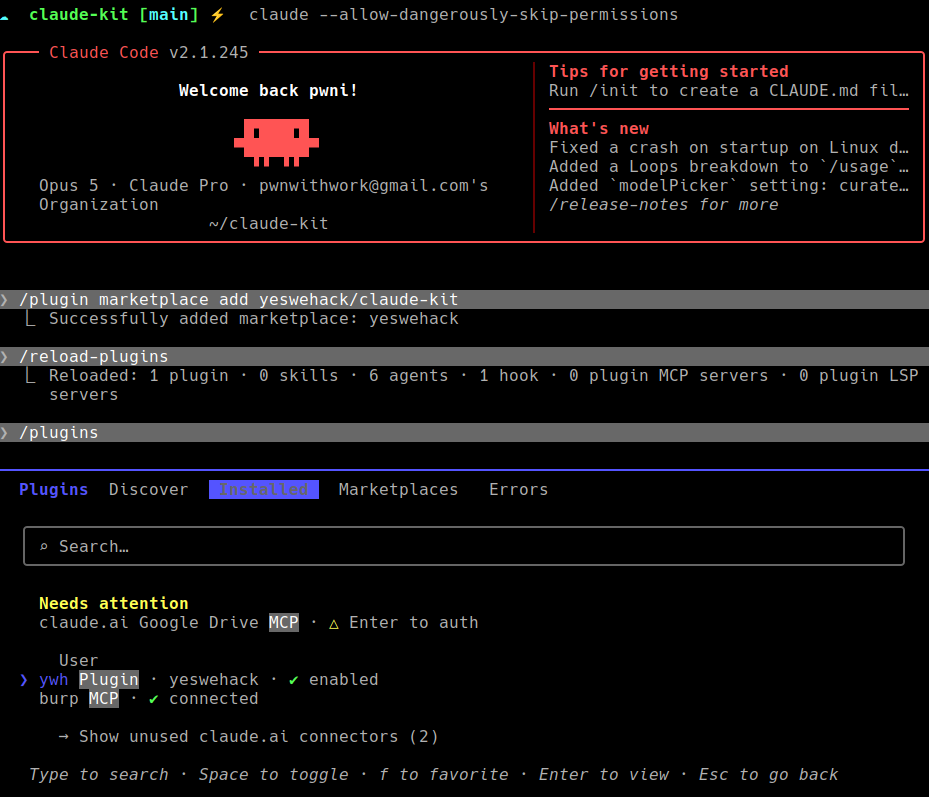
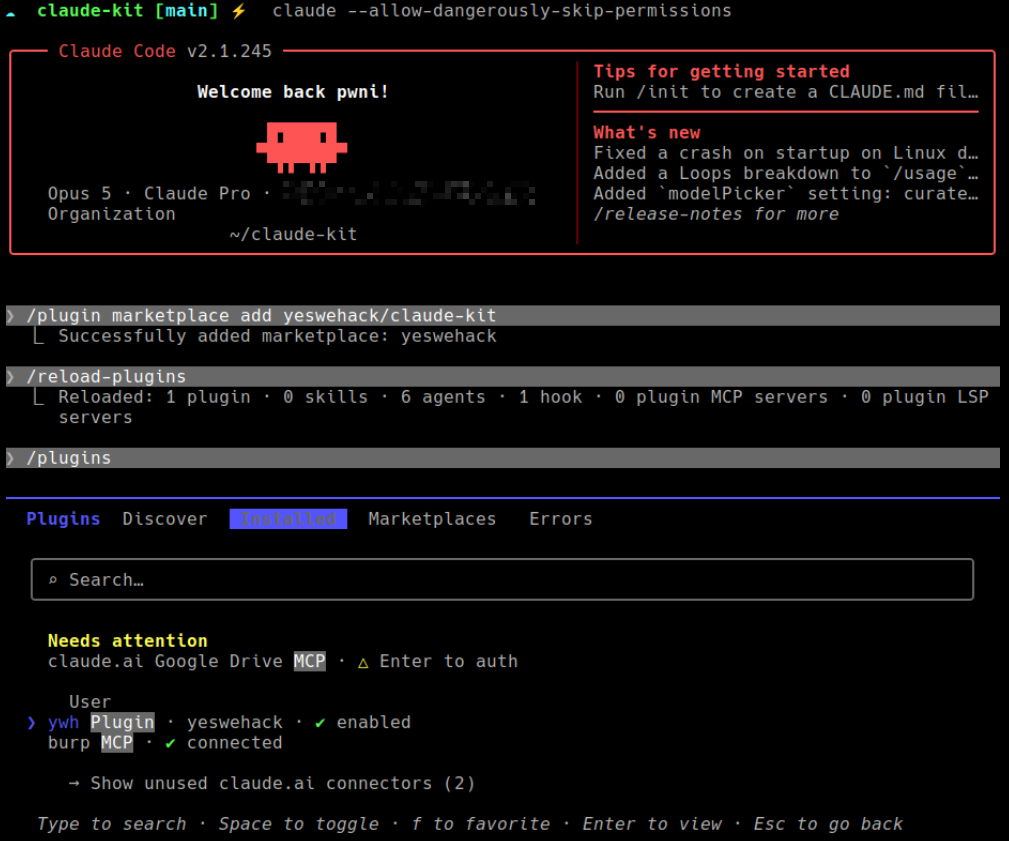
README: link the YesWeHack article

diff --git a/README.md b/README.md
@@ -18,6 +18,10 @@ One install adds two things to Claude Code: an **always-on discipline
 layer** applied to every session, and **three on-demand skills** for
 writing, triaging, and class-specific checks.
 
+> **Full walkthrough:** [Triager-grade reports with Claude
+> Code](https://www.yeswehack.com/fr/learn-bug-bounty/triager-grade-reports-claude-code)
+> on YesWeHack.
+
 ---
 
 ## Install
